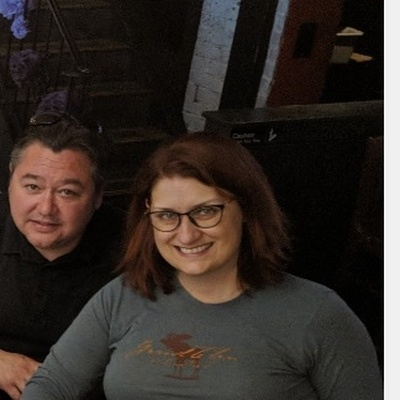
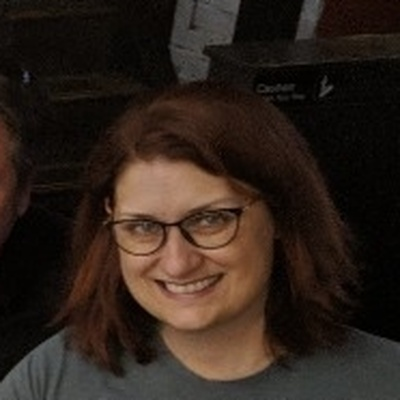
fix(headshot): update liz_scott headshot & deployment

diff --git a/src/data/sampleData.js b/src/data/sampleData.js
@@ -1,4 +1,4 @@
-export const BUILD_TIMESTAMP = 1788753426181;
+export const BUILD_TIMESTAMP = 1788753654672;
 // Real Wedding Guest List Data - Auto-updated via Host Admin Suite
 export const COHORT_COLORS = {
   "The Couple": "#38bdf8",

diff --git a/scripts/recalibrate_with_opencv.py b/scripts/recalibrate_with_opencv.py
@@ -53,7 +53,7 @@ GUEST_CALIBRATION_SPECS = {
     "danielle_sullivan": {"raw_source": "raw_sources/danielle_sullivan__orig_media__1788717156.jpg", "cx_pct": 0.440, "cy_pct": 0.460, "face_h_px": 140, "allow_subcrop": True},
     "paul_richter": {"raw_source": "raw_sources/paul_richter__orig_media__1788718085.jpg", "cx_pct": 0.440, "cy_pct": 0.320, "face_h_px": 200},
     "katie_richter": {"raw_source": "raw_sources/katie_richter__orig_media__1788718115.jpg", "cx_pct": 0.265, "cy_pct": 0.480, "face_h_px": 200},
-    "liz_scott": {"raw_source": "raw_sources/liz_scott__orig_media__1788718367.jpg", "cx_pct": 0.855, "cy_pct": 0.350, "face_h_px": 192},
+    "liz_scott": {"raw_source": "raw_sources/liz_scott__orig_media.jpg", "cx_pct": 0.855, "cy_pct": 0.350, "face_h_px": 110},
     "chrissy_fiore": {"raw_source": "raw_sources/chrissy_fiore__orig_media__1788718987.jpg", "cx_pct": 0.505, "cy_pct": 0.415, "face_h_px": 200},
     "jill_domanski": {"raw_source": "raw_sources/jill_domanski__orig_media__1788722497516.jpg", "cx_pct": 0.535, "cy_pct": 0.400, "face_h_px": 150},
     "jeff_domanski": {"raw_source": "raw_sources/jeff_domanski__orig_media__1788722512303.jpg", "cx_pct": 0.485, "cy_pct": 0.355, "face_h_px": 180},
